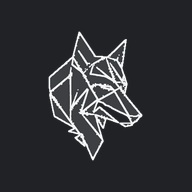
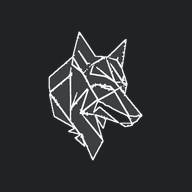
Home: Draft B temperature accents (season line, folder stripes, colored counters, live NYC temp) + sleeker vector wolf (SW v196)

diff --git a/index.html b/index.html
@@ -34,6 +34,9 @@
       --line:      rgba(216,220,226,0.20);  /* matte silver hairline */
       --line-2:    rgba(216,220,226,0.42);  /* stronger hairline */
       --nav-h:     60px;
+      --ice:       #8FD3FF;                 /* cooling */
+      --amb:       #F5A524;                 /* heating */
+      --t1: 55%; --t2: 100%;                /* temperature line stops (set per season) */
       --font: -apple-system, BlinkMacSystemFont, "SF Pro Text", "SF Pro Display", "Inter", "Helvetica Neue", Helvetica, Arial, sans-serif;
     }
 
@@ -60,6 +63,7 @@
     }
     .header-top { max-width: 1080px; margin: 0 auto; height: 100%; display: flex; align-items: center; padding: 0 28px; gap: 6px; }
     .dash-header-left { display: flex; align-items: center; gap: 12px; margin-right: auto; }
+    .tline { position: absolute; left: 0; right: 0; bottom: -1px; height: 2px; background: linear-gradient(90deg, var(--ice) var(--t1), var(--amb) var(--t2)); }
     .dash-header-logo { height: 36px; width: auto; display: block; }
     .dash-header-wordmark { font-size: 12px; font-weight: 600; letter-spacing: 0.16em; text-transform: uppercase; color: var(--ink); line-height: 1.2; }
     .dash-header-wordmark span { display: block; font-weight: 400; letter-spacing: 0.22em; color: var(--ink-3); font-size: 10px; }
@@ -88,6 +92,8 @@
       display: grid; place-items: center; font-size: 12px; font-weight: 500; letter-spacing: 0.04em; cursor: pointer; user-select: none;
     }
     .profile-circle:hover { background: var(--bg-3); }
+    .profile-circle.mgmt { border-color: var(--amb); }
+    .profile-circle.tech { border-color: var(--ice); }
     .profile-dropdown {
       display: none; position: absolute; top: calc(100% + 10px); right: 0; min-width: 240px;
       background: rgba(38,40,44,0.98); border: 1px solid var(--line); padding: 16px 18px; z-index: 300;
@@ -107,6 +113,7 @@
     .hero-greeting { padding: 88px 0 40px; }
     .hero-greeting h1 { margin: 0; font-size: 60px; font-weight: 300; letter-spacing: -0.025em; line-height: 1.02; color: var(--ink); }
     .hero-greeting p { margin: 18px 0 0; font-size: 12px; letter-spacing: 0.22em; text-transform: uppercase; color: var(--ink-3); }
+    .season { color: var(--ice); } .season.heat { color: var(--amb); } .season.mid { color: var(--ink-2); } .season b { font-weight: 500; color: var(--ink-2); }
 
     /* ═══ MY JOBS (dispatch) ═══ */
     .section-title { display: flex; align-items: baseline; justify-content: space-between; padding: 26px 0 0; border-top: 1px solid var(--line-2); }
@@ -128,7 +135,8 @@
 
     /* ═══ FOLDERS ═══ */
     .folders { padding: 8px 0 72px; }
-    .folder { display: grid; grid-template-columns: 64px 1fr 1.35fr; gap: 24px 32px; align-items: start; padding: 38px 0 42px; border-top: 1px solid var(--line-2); }
+    .folder { position: relative; display: grid; grid-template-columns: 64px 1fr 1.35fr; gap: 24px 32px; align-items: start; padding: 38px 0 42px; border-top: 1px solid var(--line-2); }
+    .folder .stripe { position: absolute; left: -28px; top: 38px; bottom: 42px; width: 2px; }
     .folder:last-child { border-bottom: 1px solid var(--line-2); }
     .folder-num { font-size: 12px; letter-spacing: 0.2em; color: var(--ink-3); padding-top: 14px; font-variant-numeric: tabular-nums; }
     .folder-head h2 { margin: 0; font-size: 40px; font-weight: 400; letter-spacing: -0.02em; line-height: 1.05; color: var(--ink); }
@@ -144,6 +152,8 @@
       font-size: 11px; font-variant-numeric: tabular-nums; min-width: 22px; height: 22px; padding: 0 6px; display: grid; place-items: center;
       border: 1px solid var(--line-2); border-radius: 999px; color: var(--ink);
     }
+    .folder-links a .n.ice { border-color: var(--ice); color: var(--ice); }
+    .folder-links a .n.amb { border-color: var(--amb); color: var(--amb); }
     .folder-links a .ar { color: var(--ink-3); font-size: 15px; transition: transform .15s; }
     .folder-links a:hover .ar { transform: translateX(3px); color: var(--ink); }
 
@@ -173,6 +183,7 @@
     }
     @media (max-width: 560px) {
       .wrap, .header-top { padding: 0 18px; }
+      .folder .stripe { left: -18px; top: 26px; bottom: 30px; }
       .nav-menu { display: none; }
       .hero-greeting { padding: 48px 0 28px; }
       .hero-greeting h1 { font-size: 38px; }
@@ -211,6 +222,7 @@
         </div>
       </div>
     </div>
+    <div class="tline" aria-hidden="true"></div>
   </header>
 
   <main class="wrap">
@@ -365,6 +377,31 @@
   }
 
   // ===== HERO GREETING =====
+  // Season: May–Sep cooling, Nov–Mar heating, Apr/Oct shoulder. Sets the temperature line + the date suffix.
+  var _seasonHtml = '';
+  function season() {
+    var m = new Date().getMonth() + 1;
+    if (m >= 5 && m <= 9) return { key: 'cool', label: 'Cooling season', t1: '55%', t2: '100%', cls: '' };
+    if (m >= 11 || m <= 3) return { key: 'heat', label: 'Heating season', t1: '0%', t2: '45%', cls: 'heat' };
+    return { key: 'mid', label: 'Shoulder season', t1: '40%', t2: '60%', cls: 'mid' };
+  }
+  function initSeason() {
+    var sn = season();
+    document.documentElement.style.setProperty('--t1', sn.t1);
+    document.documentElement.style.setProperty('--t2', sn.t2);
+    _seasonHtml = ' &nbsp;\u00b7&nbsp; <span class="season ' + sn.cls + '">' + sn.label + '</span>';
+    // live outdoor temperature for NYC (Open-Meteo, no key); silently skipped when offline
+    fetch('https://api.open-meteo.com/v1/forecast?latitude=40.71&longitude=-74.01&current=temperature_2m&temperature_unit=fahrenheit')
+      .then(function(r) { return r.json(); })
+      .then(function(j) {
+        var t = j && j.current && Math.round(j.current.temperature_2m);
+        if (typeof t === 'number' && !isNaN(t)) {
+          _seasonHtml = ' &nbsp;\u00b7&nbsp; <span class="season ' + sn.cls + '">' + sn.label + ' <b>\u00b7 ' + t + '\u00b0F</b></span>';
+          renderHero();
+        }
+      }).catch(function() {});
+  }
+
   function renderHero() {
     var hour = new Date().getHours();
     var greeting = hour < 12 ? 'Good morning' : hour < 17 ? 'Good afternoon' : 'Good evening';
@@ -378,7 +415,7 @@
     var days = ['Sunday','Monday','Tuesday','Wednesday','Thursday','Friday','Saturday'];
     var months = ['January','February','March','April','May','June','July','August','September','October','November','December'];
     var now = new Date();
-    document.getElementById('heroDate').textContent = days[now.getDay()] + ', ' + months[now.getMonth()] + ' ' + now.getDate();
+    document.getElementById('heroDate').innerHTML = days[now.getDay()] + ', ' + months[now.getMonth()] + ' ' + now.getDate() + _seasonHtml;
   }
 
 
@@ -490,26 +527,26 @@
   // ===== FOLDERS + NAV =====
   // Four folders. Each link: [title, href, draftType?, managementOnly?]
   var FOLDERS = [
-    { num: '01', title: 'Projects', desc: 'Docs, drawings, contracts, billing', links: [
+    { num: '01', title: 'Projects', desc: 'Docs, drawings, contracts, billing', stripe: '', links: [
       ['All Projects', 'projects.html'],
       ['Bid Board', 'bid-board.html', null, true],
       ['Prime Contracts', 'invoicing.html', null, true],
       ['Change Orders', 'change-order.html', 'change-order']
     ]},
-    { num: '02', title: 'Reports', desc: 'Field reports from the job', links: [
-      ['Service Call', 'history.html?type=service-call', 'service-call'],
-      ['Start-Up', 'history.html?type=startup', 'startup'],
+    { num: '02', title: 'Reports', desc: 'Field reports from the job', stripe: 'var(--ice)', links: [
+      ['Service Call', 'history.html?type=service-call', 'service-call', false, 'ice'],
+      ['Start-Up', 'history.html?type=startup', 'startup', false, 'amb'],
       ['Site Survey', 'history.html?type=site-survey', 'site-survey'],
       ['Maintenance', 'history.html?type=pm-checklist', 'pm-checklist'],
       ['Work Order', 'history.html?type=work-order', 'work-order']
     ]},
-    { num: '03', title: 'Tools', desc: 'Crews, materials, deliveries', links: [
+    { num: '03', title: 'Tools', desc: 'Crews, materials, deliveries', stripe: 'var(--amb)', links: [
       ['Schedule', 'schedule.html'],
       ['Field Orders', 'field-orders.html'],
       ['Delivery Schedule', 'driver-schedule.html'],
       ['Dispatch', 'dispatch.html']
     ]},
-    { num: '04', title: 'Office', desc: 'Customers, planning, oversight', links: [
+    { num: '04', title: 'Office', desc: 'Customers, planning, oversight', stripe: '', links: [
       ['Customers', 'customers.html'],
       ['Equipment', 'equipment.html'],
       ['Workload Planner', 'workload.html', null, true],
@@ -530,12 +567,13 @@
       var cells = '', dd = '';
       links.forEach(function(l) {
         var count = l[2] ? (draftCounts[l[2]] || 0) : 0;
-        var tail = count > 0 ? '<span class="n">' + count + '</span>' : '<span class="ar">\u2192</span>';
+        var tail = count > 0 ? '<span class="n ' + (l[4] || '') + '">' + count + '</span>' : '<span class="ar">\u2192</span>';
         cells += '<a href="' + l[1] + '" data-page="' + l[1].split('?')[0] + '"><span>' + l[0] + '</span>' + tail + '</a>';
         dd += '<a href="' + l[1] + '">' + l[0] + '</a>';
       });
       page +=
         '<section class="folder">' +
+          (f.stripe ? '<i class="stripe" style="background:' + f.stripe + '"></i>' : '') +
           '<div class="folder-num">' + f.num + '</div>' +
           '<div class="folder-head"><h2>' + f.title + '</h2><p>' + f.desc + '</p></div>' +
           '<div class="folder-links">' + cells + '</div>' +
@@ -629,6 +667,7 @@
   }
 
   // ===== INIT =====
+  initSeason();
   renderHero();
   renderReportGrid(false);
   renderDispatches();
@@ -636,6 +675,8 @@
   // Techs do not see management-only links (Bid Board, Prime Contracts, Workload, Management)
   getAuthProfile().then(function(profile) {
     if (profile && profile.role === 'tech') renderReportGrid(true);
+    var pc = document.getElementById('profileCircle');
+    if (pc && profile) pc.classList.add(profile.role === 'tech' ? 'tech' : 'mgmt');
   }).catch(function(){});
 
   // Update hero once profile loads (auth.js sets profileName async)
@@ -647,6 +688,6 @@
   setTimeout(checkiOSInstall, 1000);
 })();
 </script>
-<script src="sw-register.js?v=195"></script>
+<script src="sw-register.js?v=196"></script>
 </body>
 </html>

diff --git a/sw.js b/sw.js
@@ -1,4 +1,4 @@
-const CACHE_NAME = 'nw-field-v195';
+const CACHE_NAME = 'nw-field-v196';
 const ASSETS = [
   './',
   './index.html',
